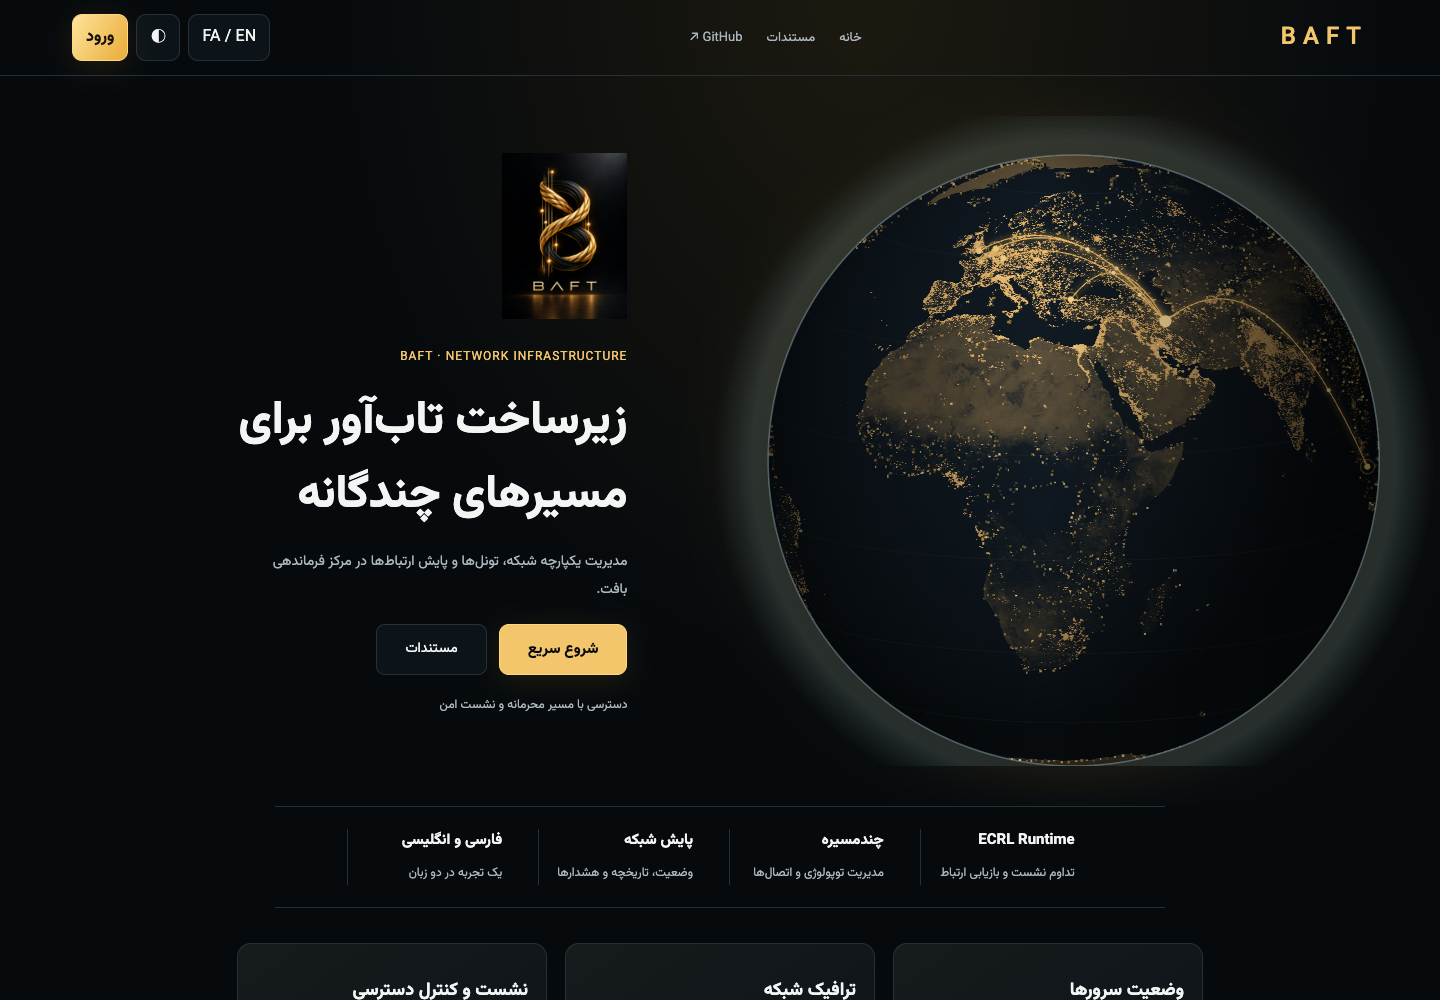
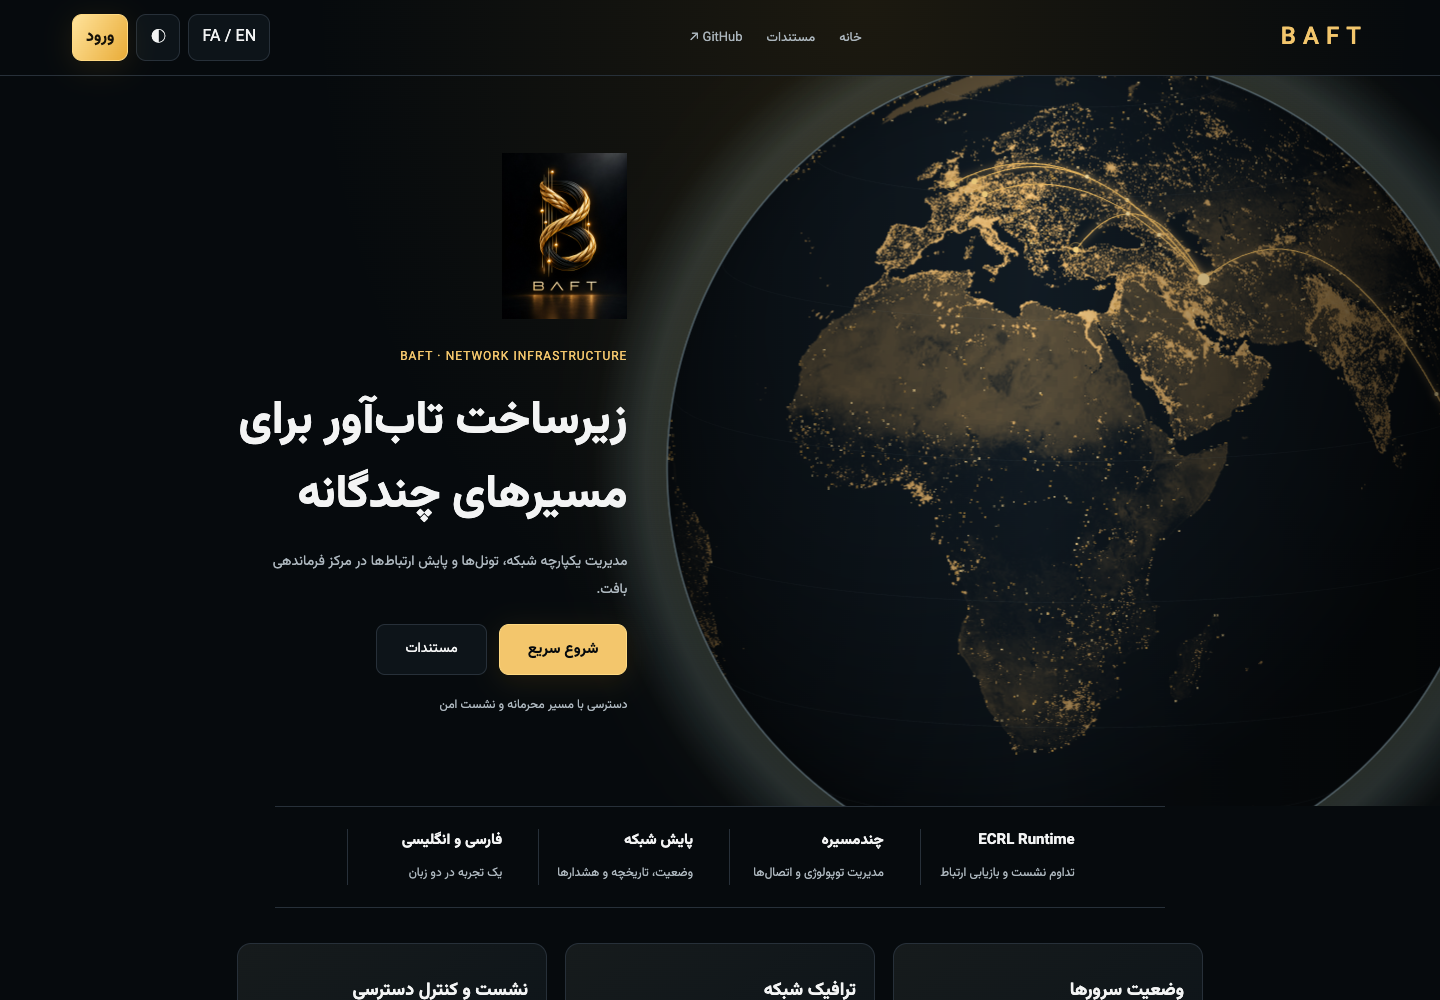
style(ui): extend cinematic globe to landing edge

Changed region(s): [[0.4375, 0.062, 1.0, 0.806], [0.8438, 0.062, 1.0, 0.279], [0.9062, 0.682, 1.0, 0.806]]

diff --git a/web/bcc-product-v3.css b/web/bcc-product-v3.css
@@ -22,3 +22,5 @@ main h1[tabindex="-1"]:focus{outline:none}
 #previewApp main h1[tabindex="-1"]:focus{outline:none}
 
 .hero-actions .hero-docs{display:inline-flex;align-items:center;justify-content:center;padding:13px 28px;border:1px solid var(--line);border-radius:9px;background:var(--panel);color:var(--text);font-size:14px;text-decoration:none}.hero-actions .hero-docs:hover{border-color:var(--gold);color:var(--gold)}@media(max-width:760px){.hero-actions .hero-docs{flex:1}}
+
+@media(min-width:1101px){.hero-art{transform:scale(1.35);transform-origin:center}}

diff --git a/docs/bcc-v3-autonomous-execution.md b/docs/bcc-v3-autonomous-execution.md
@@ -259,3 +259,7 @@ A visible Documentation action now opens the actual BAFT docs from the landing h
 The previously open backup-create gap is resolved on this branch: an authenticated, CSRF-gated POST /api/backups/create writes a server-named encrypted file (0600) only inside the configured directory and returns non-secret inventory metadata. The Backups menu creates it on explicit click, refreshes the list, selects it, and can inspect it through the existing preview API. Real Mac Chrome PASS on a disposable loopback BCC: create 201, selected new backup, preview 200 and rendered verdict; unauthorized create without CSRF returned 401 without increasing inventory. Targeted Go tests cover unauthenticated/disabled/create/file mode/preview; 40 JS tests PASS. A first browser test exposed that the legacy fetch shim treated a CSRF-rejected mutation as session expiry; it now redirects only for unauthorized reads, and the full Chrome journey passes.
 
 Actual restoration remains intentionally local and offline per docs/fa/29-bcc-backup-restore-preview.md and docs/en/29-bcc-backup-restore-preview.md. The UI links to the applicable guide; BCC must be stopped and the CLI requires explicit --yes. No live state restore was attempted. The earlier #67 open item saying create/apply API absent is superseded: create is now implemented; remote apply remains intentionally unavailable by design.
+
+## Landing composition follow-up
+
+The landing globe now extends to the viewport edge at desktop widths, closer to the supplied cinematic reference while preserving the interactive local texture and explicit illustrative routes. Real Mac Chrome 1440 × 1000 welcome screenshot in docs/qa/bcc-v3-mac-chrome-welcome.png was regenerated and visually reviewed. The landing had no document-wide overflow; the native login, seven protected menu reads, eight FA/EN/theme/viewport cells and logout passed with zero JS errors. At narrow widths the transform is disabled. The reference's brighter gold network glow and transparent logo cutout remain unmatched.
